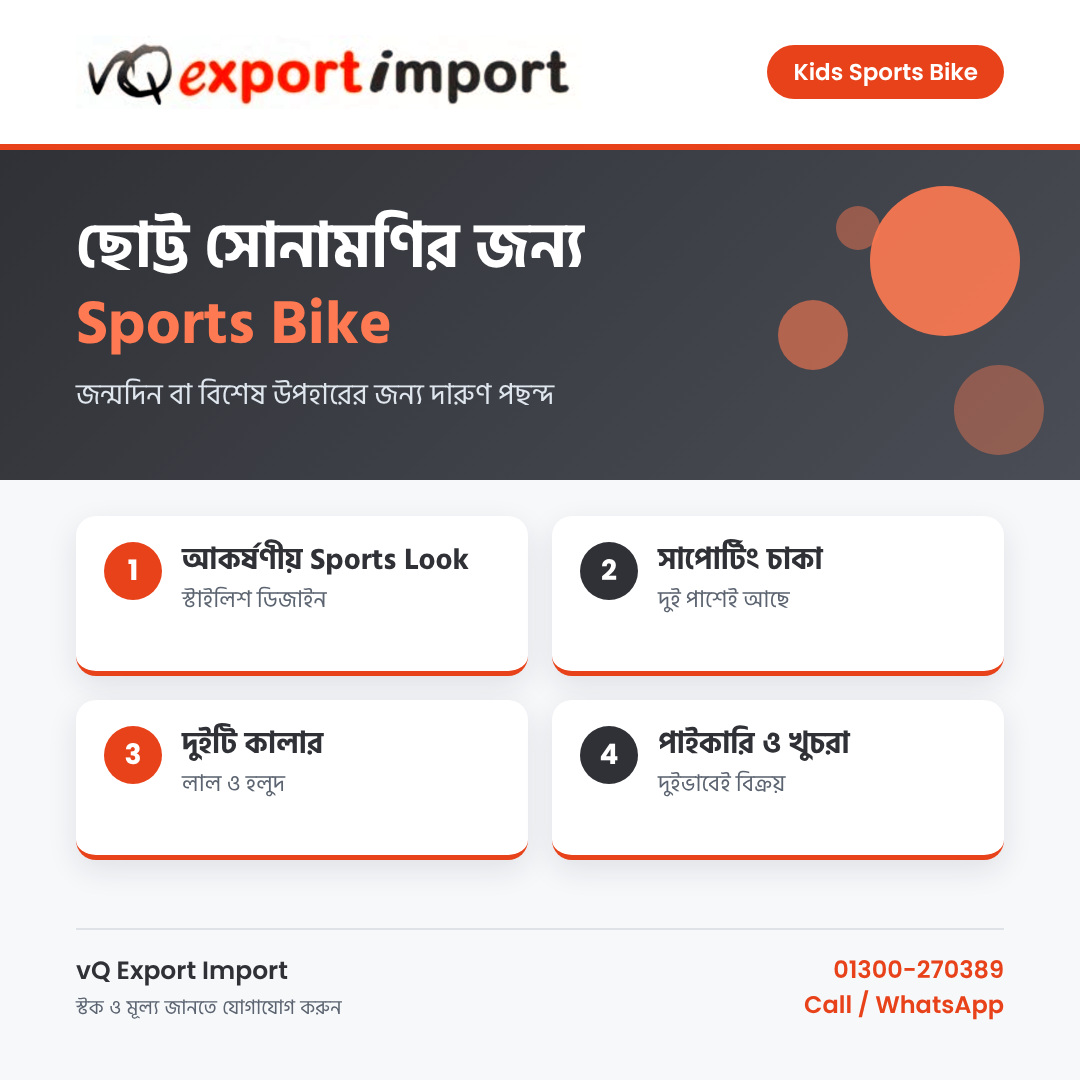
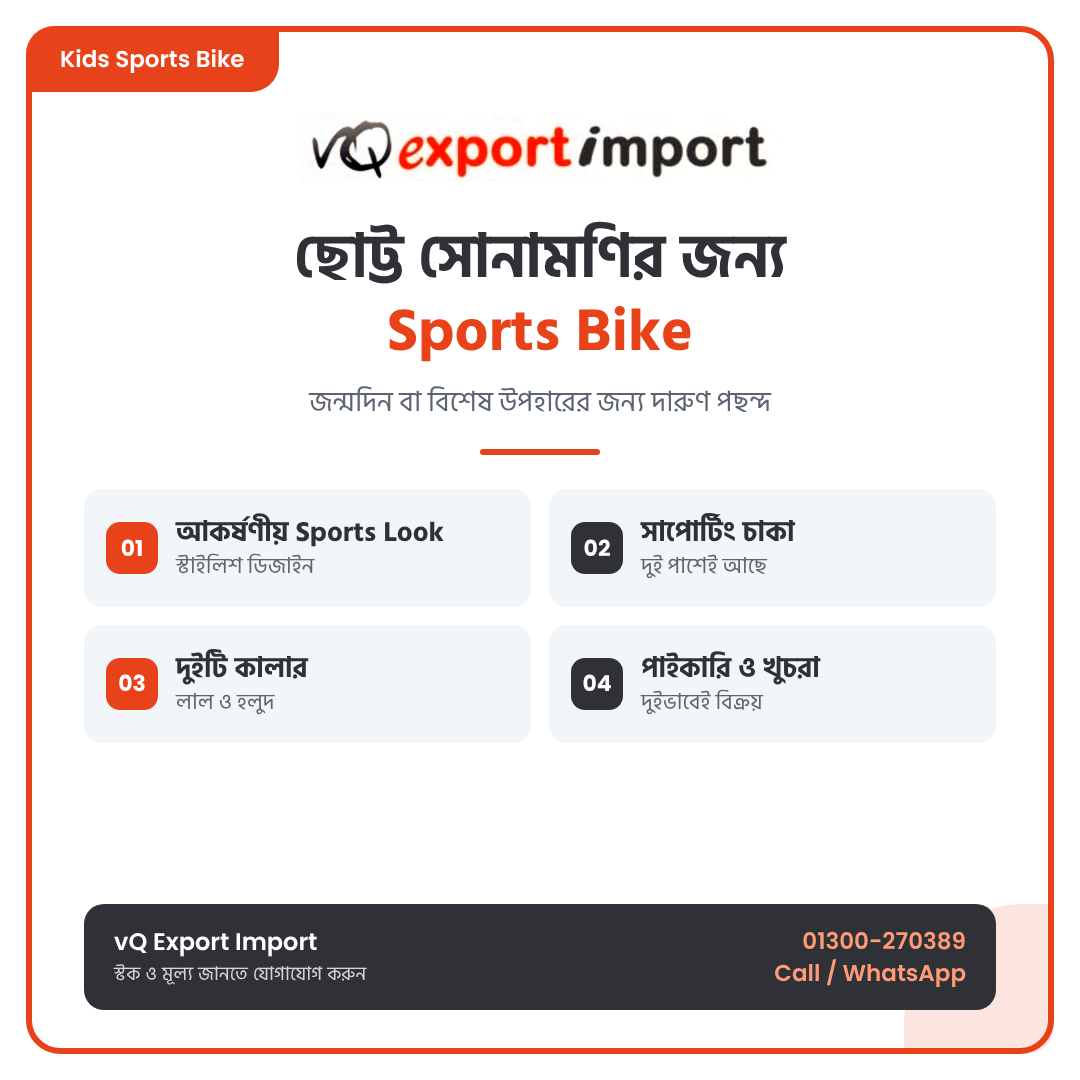
Six layouts with per-Page motifs; rebuild Nov 16-19 images
Claude-Session: https://claude.ai/code/session_01HjQqPvH5EziSdztNkgqKgZ

diff --git a/tools/make_post.py b/tools/make_post.py
@@ -6,82 +6,191 @@ Usage: python3 tools/make_post.py spec.json out.png
 spec.json:
 {
   "brand": "technoloxia" | "ornateit" | "cicio" | "cfde" | "vq",
-  "tag": "Website Tips",                    # short label, top right (<= 22 chars)
-  "headline": "আপনার Website কি *ধীরে লোড* হয়?",  # *...* = highlighted words; "\n" = line break (max 2 lines, ~22 chars each)
-  "sub": "দ্রুত করার সহজ ৪টি উপায়",          # one short line under the headline
-  "layout": "cards" | "list",               # cards = 2x2 grid (4 items), list = rows (3-5 items)
-  "items": [{"title": "ছবি Compress করুন", "text": "WebP format সবচেয়ে ভালো"}, ...],  # text optional; keep titles <= 24 chars
-  "footer_title": "Web Design • WordPress • Hosting",
-  "footer_sub": "Reliable & cost-effective IT solutions",
-  "contact": ["+880 1671 43 79 32", "technoloxia.com"]   # 1-2 short lines
+  "style": "split" | "dark" | "side" | "accent" | "frame" | "poster",   # six different layouts
+  "tag": "Website Tips",                    # short label (<= 22 chars)
+  "headline": "line one\n*highlighted words* line two",   # max 2 lines
+  "sub": "one short line under the headline",
+  "items": [{"title": "...", "text": "..."}, ...],          # 3-5 items, text optional
+  "footer_title": "...", "footer_sub": "...",
+  "contact": ["+880 1671 43 79 32", "technoloxia.com"]      # 1-2 short lines
 }
+Each brand also has its own background motif (dots, grid, rings, arcs, stripes),
+so the same style looks different from Page to Page.
 """
 import sys, os, json, html, re, subprocess, tempfile
 ROOT = os.path.dirname(os.path.dirname(os.path.abspath(__file__)))
 BRANDS = {
- "technoloxia": dict(logo="technoloxia.png", logo_h=104, accent="#45a007", accent2="#6fd11f", dark="#1c2633", dark2="#2a363f"),
- "ornateit":    dict(logo="ornateit-light.png", logo_h=72, accent="#1e8c3a", accent2="#5fd487", dark="#06180d", dark2="#14512b"),
- "cicio":       dict(logo="cicio-light.png", logo_h=118, accent="#05aaea", accent2="#4cc8f7", dark="#1c2633", dark2="#02232d"),
- "cfde":        dict(logo="cfde.png", logo_h=84, accent="#00709f", accent2="#6ec1e4", dark="#004e6f", dark2="#00709f", pop="#e9002e"),
- "vq":          dict(logo="vq.png", logo_h=74, accent="#e8421a", accent2="#ff7a52", dark="#2f3136", dark2="#4a4d55"),
+ "technoloxia": dict(logo="technoloxia.png", logo_h=104, accent="#45a007", accent2="#7ddb2a", dark="#1c2633", dark2="#2f3d4a", motif="dots"),
+ "ornateit":    dict(logo="ornateit-light.png", logo_h=70, accent="#1e8c3a", accent2="#5fd487", dark="#06180d", dark2="#14512b", motif="grid"),
+ "cicio":       dict(logo="cicio-light.png", logo_h=112, accent="#05aaea", accent2="#5fd0fb", dark="#1c2633", dark2="#02232d", motif="rings"),
+ "cfde":        dict(logo="cfde.png", logo_h=80, accent="#00709f", accent2="#8fd3f0", dark="#003f5c", dark2="#00709f", pop="#e9002e", motif="arcs"),
+ "vq":          dict(logo="vq.png", logo_h=70, accent="#e8421a", accent2="#ff9a76", dark="#2f3136", dark2="#4a4d55", motif="stripes"),
 }
+F = "font-family:'Hind Siliguri','Poppins',sans-serif"
+
 def esc(s): return html.escape(s or "")
 def hl(s):
-    s = esc(s).replace("\n", "<br>")
-    return re.sub(r"\*(.+?)\*", r"<em>\1</em>", s)
+    return re.sub(r"\*(.+?)\*", r"<em>\1</em>", esc(s).replace("\n", "<br>"))
+
+def motif(kind, c, seed=0):
+    """Decorative background, different for every brand. c = colour."""
+    if kind == "dots":
+        pts = [(880, 90, 150, .9), (760, 250, 70, .6), (990, 300, 96, .4), (700, 70, 40, .5), (930, 470, 46, .35), (640, 200, 22, .5)]
+        return "".join(f'<i style="position:absolute;left:{x+seed*7 % 60}px;top:{y}px;width:{r}px;height:{r}px;border-radius:50%;background:{c};opacity:{o}"></i>' for x, y, r, o in pts)
+    if kind == "grid":
+        return (f'<i style="position:absolute;inset:0;background-image:linear-gradient({c}22 1px,transparent 1px),linear-gradient(90deg,{c}22 1px,transparent 1px);background-size:54px 54px"></i>'
+                f'<i style="position:absolute;right:-220px;top:-240px;width:680px;height:680px;border-radius:50%;background:radial-gradient(circle,{c}aa 0%,{c}00 70%)"></i>')
+    if kind == "rings":
+        return "".join(f'<i style="position:absolute;right:{-140-i*60}px;top:{-150-i*60}px;width:{420+i*120}px;height:{420+i*120}px;border-radius:50%;border:{22-i*5}px solid {c};opacity:{.55-i*.14}"></i>' for i in range(3))
+    if kind == "arcs":
+        return (f'<i style="position:absolute;right:-200px;top:-200px;width:560px;height:560px;border-radius:50%;background:{c};opacity:.35"></i>'
+                f'<i style="position:absolute;right:120px;top:210px;width:170px;height:170px;border-radius:50%;background:{c};opacity:.22"></i>'
+                f'<i style="position:absolute;left:-150px;bottom:-190px;width:420px;height:420px;border-radius:50%;border:44px solid {c};opacity:.22"></i>')
+    if kind == "stripes":
+        return (f'<i style="position:absolute;right:-160px;top:-60px;width:520px;height:520px;transform:rotate(18deg);background:repeating-linear-gradient(90deg,{c} 0 26px,transparent 26px 64px);opacity:.55"></i>')
+    return ""
+
+def items_html(items, cls="it"):
+    return "".join(f'<div class="{cls}"><b>{i+1:02d}</b><div><h3>{esc(it["title"])}</h3>' + (f'<p>{esc(it["text"])}</p>' if it.get("text") else "") + '</div></div>' for i, it in enumerate(items))
+
 def build(spec):
-    b = BRANDS[spec["brand"]]
-    logo = os.path.join(ROOT, "logos", b["logo"])
-    logo_html = f'<img src="file://{logo}" style="height:{b["logo_h"]}px">' if os.path.exists(logo) else f'<div class="tlogo">{esc(spec.get("brand_name", spec["brand"]))}</div>'
-    items = spec.get("items", [])
-    layout = spec.get("layout", "cards" if len(items) == 4 else "list")
-    if layout == "cards":
-        body = '<div class="grid">' + "".join(
-            f'<div class="card"><div class="num">{i+1}</div><div><h3>{esc(it["title"])}</h3>' + (f'<p>{esc(it["text"])}</p>' if it.get("text") else "") + '</div></div>'
-            for i, it in enumerate(items[:4])) + '</div>'
-    else:
-        n = max(1, min(len(items), 5)); fs = {1: 36, 2: 36, 3: 34, 4: 32, 5: 28}[n]
-        pad = {1: 40, 2: 40, 3: 34, 4: 16, 5: 9}[n]
-        body = f'<div class="list" style="font-size:{fs}px">' + "".join(
-            f'<div class="row" style="padding-top:{pad}px;padding-bottom:{pad}px"><div class="num">{i+1}</div><div><h3>{esc(it["title"])}</h3>' + (f'<p>{esc(it["text"])}</p>' if it.get("text") else "") + '</div></div>'
-            for i, it in enumerate(items[:5])) + '</div>'
-    contact = "<br>".join(esc(c) for c in spec.get("contact", [])[:2])
-    pop = b.get("pop", b["accent"])
-    return f'''<!DOCTYPE html><html><head><meta charset="utf-8">
-<link rel="stylesheet" href="file://{ROOT}/fonts/fonts.css"><style>
-*{{margin:0;padding:0;box-sizing:border-box}}
-body{{width:1080px;height:1080px;font-family:'Poppins','Hind Siliguri',sans-serif;background:#f7f8fa;color:{b["dark"]};overflow:hidden;position:relative}}
-.head{{position:absolute;top:0;left:0;right:0;height:150px;background:#fff;display:flex;justify-content:space-between;align-items:center;padding:0 76px;border-bottom:6px solid {b["accent"]}}}
-.tlogo{{font-weight:700;font-size:40px;color:{b["dark"]}}}
-.tag{{font-size:23px;font-weight:600;background:{pop};color:#fff;padding:10px 26px;border-radius:40px;white-space:nowrap}}
-.band{{position:absolute;top:150px;left:0;right:0;height:330px;background:linear-gradient(135deg,{b["dark"]} 0%,{b["dark2"]} 100%);overflow:hidden}}
-.dot{{position:absolute;border-radius:50%;background:{b["accent2"]}}}
-.wrap{{position:relative;padding:150px 76px 56px;height:100%;display:flex;flex-direction:column}}
-.hero{{flex:none;height:330px;display:flex;flex-direction:column;justify-content:center;padding-right:230px}}
-h1{{color:#fff;font-family:'Hind Siliguri','Poppins';font-weight:700;font-size:62px;line-height:1.22}}
-h1 em{{font-style:normal;color:{b["accent2"]}}}
-.sub{{margin-top:10px;color:#dfe6ee;font-family:'Hind Siliguri','Poppins';font-size:29px}}
-.grid{{margin-top:36px;display:grid;grid-template-columns:1fr 1fr;gap:24px}}
-.card{{background:#fff;border-radius:20px;padding:26px 28px;box-shadow:0 10px 30px rgba(20,30,45,.10);display:flex;gap:20px;align-items:flex-start;min-height:160px;border-bottom:5px solid {b["accent"]}}}
-.row .num{{width:52px;height:52px;font-size:25px}}
-.num{{flex:none;width:58px;height:58px;border-radius:50%;background:{b["accent"]};color:#fff;font-family:'Poppins';font-weight:700;font-size:28px;display:flex;align-items:center;justify-content:center}}
-.card:nth-child(even) .num,.row:nth-child(even) .num{{background:{b["dark"]}}}
-h3{{font-family:'Hind Siliguri','Poppins';font-size:1em;font-weight:700;line-height:1.25}}
-.card h3{{font-size:30px}}
-.card p,.row p{{margin-top:5px;font-family:'Hind Siliguri','Poppins';font-size:23px;font-weight:400;color:#5b6470;line-height:1.35}}
-.list{{margin-top:30px;display:flex;flex-direction:column;gap:13px}}
-.row{{background:#fff;border-radius:16px;padding:16px 24px;box-shadow:0 8px 24px rgba(20,30,45,.08);display:flex;gap:20px;align-items:center;border-left:6px solid {b["accent"]}}}
+    b = BRANDS[spec["brand"]]; style = spec.get("style", "split")
+    A, A2, D, D2 = b["accent"], b["accent2"], b["dark"], b["dark2"]; POP = b.get("pop", A)
+    logo_path = os.path.join(ROOT, "logos", b["logo"])
+    def logo(h=None, pill=False):
+        img = f'<img src="file://{logo_path}" style="height:{h or b["logo_h"]}px;display:block">'
+        return f'<div style="background:#fff;border-radius:18px;padding:14px 24px;display:inline-block">{img}</div>' if pill else img
+    items = spec.get("items", [])[:5]; n = max(1, len(items))
+    tag, head, sub = esc(spec.get("tag", "")), hl(spec["headline"]), esc(spec.get("sub", ""))
+    ft, fs = esc(spec.get("footer_title", "")), esc(spec.get("footer_sub", ""))
+    contact = spec.get("contact", [])[:2]; cbr = "<br>".join(esc(c) for c in contact)
+    base = f'''*{{margin:0;padding:0;box-sizing:border-box}} i{{display:block}}
+body{{width:1080px;height:1080px;overflow:hidden;position:relative;font-family:'Poppins','Hind Siliguri',sans-serif}}
+h1,h3,p,.sub{{{F}}} h1 em{{font-style:normal}} .mo{{position:absolute;inset:0;overflow:hidden}}
+.tag{{font-size:23px;font-weight:600;padding:10px 26px;border-radius:40px;white-space:nowrap;display:inline-block}}'''
+    M = b["motif"]
+
+    if style == "dark":
+        gap = {3: 22, 4: 14, 5: 10}.get(n, 14); pad = {3: 26, 4: 14, 5: 9}.get(n, 14)
+        css = f'''body{{background:linear-gradient(155deg,{D} 0%,{D2} 100%);color:#fff}}
+.w{{position:relative;height:100%;padding:64px 72px 56px;display:flex;flex-direction:column}}
+.top{{display:flex;justify-content:space-between;align-items:center}} .tag{{border:2px solid {A2};color:{A2};background:{D}}}
+h1{{margin-top:36px;font-size:64px;line-height:1.2;font-weight:700}} h1 em{{color:{A2}}}
+.sub{{margin-top:10px;font-size:29px;color:#d5dde6}}
+.its{{margin-top:28px;display:flex;flex-direction:column;gap:{gap}px}}
+.it{{display:flex;align-items:center;gap:22px;background:rgba(255,255,255,.08);border:1px solid rgba(255,255,255,.14);border-radius:16px;padding:{pad}px 24px}}
+.it b{{flex:none;width:54px;height:54px;border-radius:14px;background:{A2};color:{D};font-size:24px;display:flex;align-items:center;justify-content:center}}
+.it h3{{font-size:31px;font-weight:600;line-height:1.25}} .it p{{font-size:23px;color:#c5d0db;margin-top:2px}}
+.foot{{margin-top:auto;display:flex;justify-content:space-between;align-items:center;border-top:2px solid rgba(255,255,255,.18);padding-top:22px;gap:30px}}
+.cta{{font-size:25px;font-weight:600}} .cta small{{display:block;font-size:20px;font-weight:400;color:#c5d0db}}
+.web{{text-align:right;font-size:24px;font-weight:600;color:{A2};line-height:1.45;white-space:nowrap}}'''
+        body = f'''<div class="mo">{motif(M, A)}</div><div class="w"><div class="top">{logo(pill=True, h=min(int(b["logo_h"]*.82), 68))}<span class="tag">{tag}</span></div>
+<h1>{head}</h1><div class="sub">{sub}</div><div class="its">{items_html(items)}</div>
+<div class="foot"><div class="cta">{ft}<small>{fs}</small></div><div class="web">{cbr}</div></div></div>'''
+
+    elif style == "side":
+        gap = {3: 44, 4: 30, 5: 20}.get(n, 30)
+        css = f'''body{{background:#fff;color:{D}}}
+.l{{position:absolute;left:0;top:0;bottom:0;width:430px;background:linear-gradient(180deg,{D} 0%,{D2} 100%);color:#fff;padding:60px 44px 52px;display:flex;flex-direction:column;overflow:hidden}}
+.l>*{{position:relative}} .tag{{background:{A2};color:{D};align-self:flex-start}}
+h1{{margin-top:54px;font-size:50px;line-height:1.24;font-weight:700}} h1 em{{color:{A2}}}
+.sub{{margin-top:20px;font-size:26px;color:#d5dde6;line-height:1.4}}
+.web{{margin-top:auto;font-size:24px;font-weight:600;line-height:1.5;color:{A2}}}
+.r{{position:absolute;left:430px;right:0;top:0;bottom:0;padding:52px 60px 0 56px;display:flex;flex-direction:column}}
+.lg{{display:flex;justify-content:flex-end}}
+.its{{flex:1;display:flex;flex-direction:column;justify-content:center;gap:{gap}px}}
+.it{{display:flex;gap:24px;align-items:flex-start}}
+.it b{{flex:none;font-size:54px;line-height:1;font-weight:700;color:{A};width:78px}}
+.it h3{{font-size:32px;font-weight:700;line-height:1.25}} .it p{{font-size:24px;color:#5b6470;margin-top:4px;line-height:1.35}}
+.bar{{margin:0 -60px 0 -56px;background:{A};color:#fff;padding:24px 56px;font-size:25px;font-weight:600}} .bar small{{display:block;font-size:20px;font-weight:400;opacity:.9}}'''
+        body = f'''<div class="l"><div class="mo" style="opacity:.5">{motif(M, A2)}</div><span class="tag">{tag}</span><h1>{head}</h1><div class="sub">{sub}</div><div class="web">{cbr}</div></div>
+<div class="r"><div class="lg">{logo()}</div><div class="its">{items_html(items)}</div><div class="bar">{ft}<small>{fs}</small></div></div>'''
+
+    elif style == "accent":
+        gap = {3: 30, 4: 22, 5: 14}.get(n, 22)
+        css = f'''body{{background:linear-gradient(140deg,{A} 0%,{D2} 130%);color:#fff}}
+.w{{position:relative;height:100%;padding:58px 64px 50px;display:flex;flex-direction:column}}
+.top{{display:flex;justify-content:space-between;align-items:center}} .tag{{background:{D};color:#fff}}
+h1{{margin-top:38px;font-size:62px;line-height:1.28;font-weight:700}} h1 em{{background:{D};padding:0 14px;border-radius:12px;box-decoration-break:clone;-webkit-box-decoration-break:clone}}
+.sub{{margin-top:12px;font-size:28px;opacity:.95}}
+.card{{margin-top:30px;flex:1;background:#fff;color:{D};border-radius:30px;padding:34px 40px;display:flex;flex-direction:column;justify-content:center;gap:{gap}px;box-shadow:0 20px 50px rgba(0,0,0,.22)}}
+.it{{display:flex;gap:20px;align-items:center}}
+.it b{{flex:none;width:50px;height:50px;border-radius:50%;background:{A};color:#fff;font-size:0;display:flex;align-items:center;justify-content:center}}
+.it b:after{{content:"✓";font-size:28px}}
+.it h3{{font-size:31px;font-weight:700;line-height:1.25}} .it p{{font-size:23px;color:#5b6470;margin-top:2px}}
+.foot{{margin-top:26px;display:flex;justify-content:space-between;align-items:center;gap:30px}}
+.cta{{font-size:25px;font-weight:600}} .cta small{{display:block;font-size:20px;font-weight:400;opacity:.9}}
+.web{{text-align:right;font-size:24px;font-weight:700;line-height:1.45;white-space:nowrap}}'''
+        body = f'''<div class="mo" style="opacity:.35">{motif(M, "#ffffff")}</div><div class="w"><div class="top">{logo(pill=True, h=min(int(b["logo_h"]*.82), 68))}<span class="tag">{tag}</span></div>
+<h1>{head}</h1><div class="sub">{sub}</div><div class="card">{items_html(items)}</div>
+<div class="foot"><div class="cta">{ft}<small>{fs}</small></div><div class="web">{cbr}</div></div></div>'''
+
+    elif style == "frame":
+        cols = "1fr" if n == 3 else "1fr 1fr"
+        css = f'''body{{background:#fff;color:{D}}}
+.fr{{position:absolute;inset:26px;border:6px solid {A};border-radius:34px}}
+.cn{{position:absolute;left:26px;top:26px;background:{A};color:#fff;border-radius:28px 0 28px 0;padding:16px 34px;font-size:23px;font-weight:600}}
+.cn2{{position:absolute;right:26px;bottom:26px;width:150px;height:150px;background:{A};border-radius:120px 0 28px 0;opacity:.14}}
+.w{{position:relative;height:100%;padding:112px 84px 70px;display:flex;flex-direction:column;align-items:center;text-align:center}}
+h1{{margin-top:40px;font-size:60px;line-height:1.22;font-weight:700}} h1 em{{color:{POP}}}
+.sub{{margin-top:12px;font-size:28px;color:#5b6470}}
+.ln{{width:120px;height:6px;border-radius:6px;background:{A};margin-top:24px}}
+.its{{margin-top:34px;width:100%;display:grid;grid-template-columns:{cols};gap:18px;text-align:left}}
+.it{{display:flex;gap:18px;align-items:center;background:#f3f6f9;border-radius:18px;padding:{26 if n == 3 else 26}px 22px}}
+.it:nth-child(5){{grid-column:1/-1}}
+.it b{{flex:none;width:52px;height:52px;border-radius:14px;background:{A};color:#fff;font-size:22px;display:flex;align-items:center;justify-content:center}}
+.it:nth-child(even) b{{background:{D}}}
+.it h3{{font-size:{32 if n == 3 else 28}px;font-weight:700;line-height:1.25}} .it p{{font-size:22px;color:#5b6470;margin-top:2px;line-height:1.3}}
+.foot{{margin-top:auto;width:100%;background:{D};color:#fff;border-radius:20px;padding:20px 30px;display:flex;justify-content:space-between;align-items:center;text-align:left;gap:24px}}
+.cta{{font-size:24px;font-weight:600}} .cta small{{display:block;font-size:19px;font-weight:400;opacity:.8}}
+.web{{text-align:right;font-size:23px;font-weight:600;color:{A2};line-height:1.4;white-space:nowrap}}'''
+        body = f'''<div class="fr"></div><div class="cn">{tag}</div><div class="cn2"></div><div class="w">{logo()}
+<h1>{head}</h1><div class="sub">{sub}</div><div class="ln"></div><div class="its">{items_html(items)}</div>
+<div class="foot"><div class="cta">{ft}<small>{fs}</small></div><div class="web">{cbr}</div></div></div>'''
+
+    elif style == "poster":
+        cols = "repeat(3,1fr)" if n == 3 else "1fr 1fr"
+        css = f'''body{{background:#fff;color:{D}}}
+.hero{{position:absolute;left:0;right:0;top:0;height:560px;background:linear-gradient(135deg,{D} 0%,{D2} 100%);color:#fff;clip-path:polygon(0 0,100% 0,100% 84%,0 100%);overflow:hidden}}
+.hi{{position:relative;padding:60px 72px}} .tag{{background:{POP};color:#fff}}
+h1{{margin-top:40px;font-size:74px;line-height:1.18;font-weight:700}} h1 em{{color:{A2}}}
+.sub{{margin-top:14px;font-size:30px;color:#dfe6ee}}
+.w{{position:absolute;left:0;right:0;top:560px;bottom:0;padding:22px 72px 50px;display:flex;flex-direction:column}}
+.its{{margin:auto 0;display:grid;grid-template-columns:{cols};gap:{26 if n == 3 else 30}px {30 if n == 3 else 40}px}}
+.it{{{"display:block" if n == 3 else "display:flex;gap:18px;align-items:flex-start"};border-top:5px solid {A};padding-top:14px}}
+.it:nth-child(5){{grid-column:1/-1}}
+.it b{{flex:none;font-size:{46 if n == 3 else 42}px;line-height:1;color:{A};font-weight:700;display:block;{"margin-bottom:10px" if n == 3 else "width:64px"}}}
+.it h3{{font-size:{30 if n == 3 else 31}px;font-weight:700;line-height:1.28}} .it p{{font-size:23px;color:#5b6470;margin-top:4px;line-height:1.3}}
+.foot{{display:flex;justify-content:space-between;align-items:center;gap:24px}}
+.cta{{font-size:22px;font-weight:600;margin-top:8px}} .web{{text-align:right;font-size:24px;font-weight:700;color:{A};line-height:1.4;white-space:nowrap}}'''
+        body = f'''<div class="hero"><div class="mo">{motif(M, A)}</div><div class="hi"><span class="tag">{tag}</span><h1>{head}</h1><div class="sub">{sub}</div></div></div>
+<div class="w"><div class="its">{items_html(items)}</div>
+<div class="foot"><div>{logo(h=int(b["logo_h"]*.8))}<div class="cta">{ft}</div></div><div class="web">{cbr}</div></div></div>'''
+
+    else:  # split
+        cards = (n == 4 and all(it.get("text") for it in items))
+        pad = {3: 34, 4: 16, 5: 9}.get(n, 16); fsz = {3: 34, 4: 32, 5: 28}.get(n, 32)
+        css = f'''body{{background:#f7f8fa;color:{D}}}
+.head{{position:absolute;top:0;left:0;right:0;height:150px;background:#fff;display:flex;justify-content:space-between;align-items:center;padding:0 76px;border-bottom:6px solid {A}}}
+.tag{{background:{POP};color:#fff}}
+.band{{position:absolute;top:150px;left:0;right:0;height:330px;background:linear-gradient(135deg,{D} 0%,{D2} 100%);overflow:hidden}}
+.w{{position:relative;padding:150px 76px 56px;height:100%;display:flex;flex-direction:column}}
+.hero{{flex:none;height:330px;display:flex;flex-direction:column;justify-content:center;padding-right:230px;color:#fff}}
+h1{{font-size:62px;line-height:1.22;font-weight:700}} h1 em{{color:{A2}}} .sub{{margin-top:10px;font-size:29px;color:#dfe6ee}}
+.its{{margin-top:{36 if cards else 30}px;{"display:grid;grid-template-columns:1fr 1fr;gap:24px" if cards else "display:flex;flex-direction:column;gap:13px"}}}
+.it{{background:#fff;display:flex;gap:20px;{"align-items:flex-start;border-radius:20px;padding:26px 28px;min-height:160px;border-bottom:5px solid "+A if cards else "align-items:center;border-radius:16px;padding:"+str(pad)+"px 24px;border-left:6px solid "+A};box-shadow:0 8px 26px rgba(20,30,45,.09)}}
+.it b{{flex:none;width:54px;height:54px;border-radius:50%;background:{A};color:#fff;font-size:22px;display:flex;align-items:center;justify-content:center}}
+.it:nth-child(even) b{{background:{D}}}
+.it h3{{font-size:{30 if cards else fsz}px;font-weight:700;line-height:1.25}} .it p{{font-size:23px;color:#5b6470;margin-top:5px;line-height:1.35}}
 .foot{{margin-top:auto;display:flex;justify-content:space-between;align-items:center;gap:30px;border-top:2px solid #dfe3e8;padding-top:22px}}
-.cta{{font-size:25px;font-weight:600;font-family:'Poppins','Hind Siliguri'}}
-.cta small{{display:block;font-size:20px;font-weight:400;color:#5b6470;margin-top:2px}}
-.web{{text-align:right;font-size:24px;font-weight:600;color:{b["accent"]};line-height:1.45;white-space:nowrap}}
-</style></head><body>
-<div class="band"><div class="dot" style="width:150px;height:150px;right:60px;top:36px;opacity:.9"></div><div class="dot" style="width:70px;height:70px;right:232px;top:150px;opacity:.6"></div><div class="dot" style="width:44px;height:44px;right:200px;top:56px;opacity:.45"></div><div class="dot" style="width:90px;height:90px;right:36px;top:215px;opacity:.4"></div></div>
-<div class="head">{logo_html}<div class="tag">{esc(spec.get("tag",""))}</div></div>
-<div class="wrap"><div class="hero"><h1>{hl(spec["headline"])}</h1><div class="sub">{esc(spec.get("sub",""))}</div></div>
-{body}
-<div class="foot"><div class="cta">{esc(spec.get("footer_title",""))}<small>{esc(spec.get("footer_sub",""))}</small></div><div class="web">{contact}</div></div>
-</div></body></html>'''
+.cta{{font-size:25px;font-weight:600}} .cta small{{display:block;font-size:20px;font-weight:400;color:#5b6470}}
+.web{{text-align:right;font-size:24px;font-weight:600;color:{A};line-height:1.45;white-space:nowrap}}'''
+        body = f'''<div class="band"><div class="mo" style="left:40%">{motif(M, A2)}</div></div><div class="head">{logo()}<span class="tag">{tag}</span></div>
+<div class="w"><div class="hero"><h1>{head}</h1><div class="sub">{sub}</div></div><div class="its">{items_html(items)}</div>
+<div class="foot"><div class="cta">{ft}<small>{fs}</small></div><div class="web">{cbr}</div></div></div>'''
+
+    return f'<!DOCTYPE html><html><head><meta charset="utf-8"><link rel="stylesheet" href="file://{ROOT}/fonts/fonts.css"><style>{base}\n{css}</style></head><body>{body}</body></html>'
+
 if __name__ == "__main__":
     spec = json.load(open(sys.argv[1], encoding="utf-8"))
     with tempfile.NamedTemporaryFile("w", suffix=".html", delete=False, encoding="utf-8") as f:
